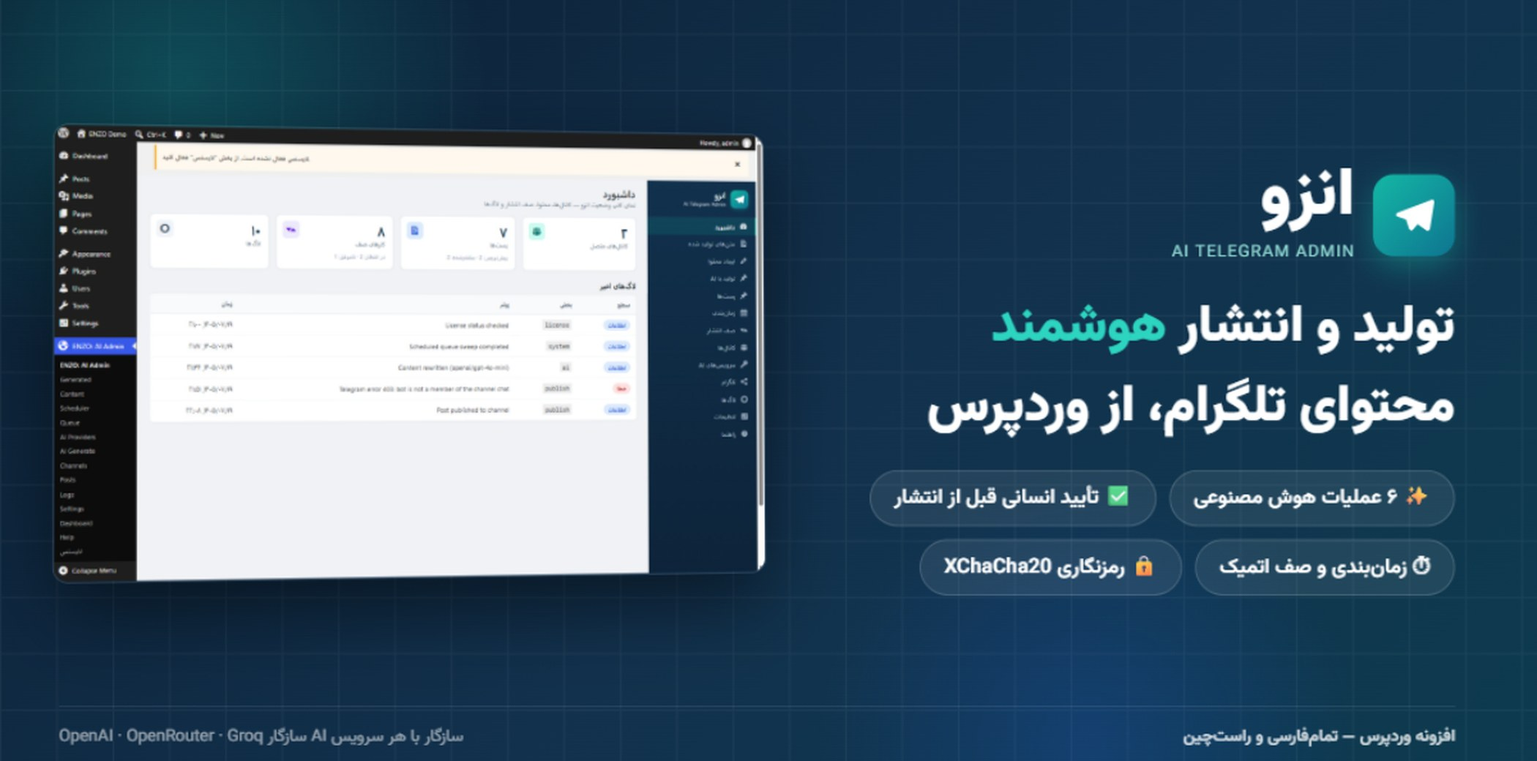
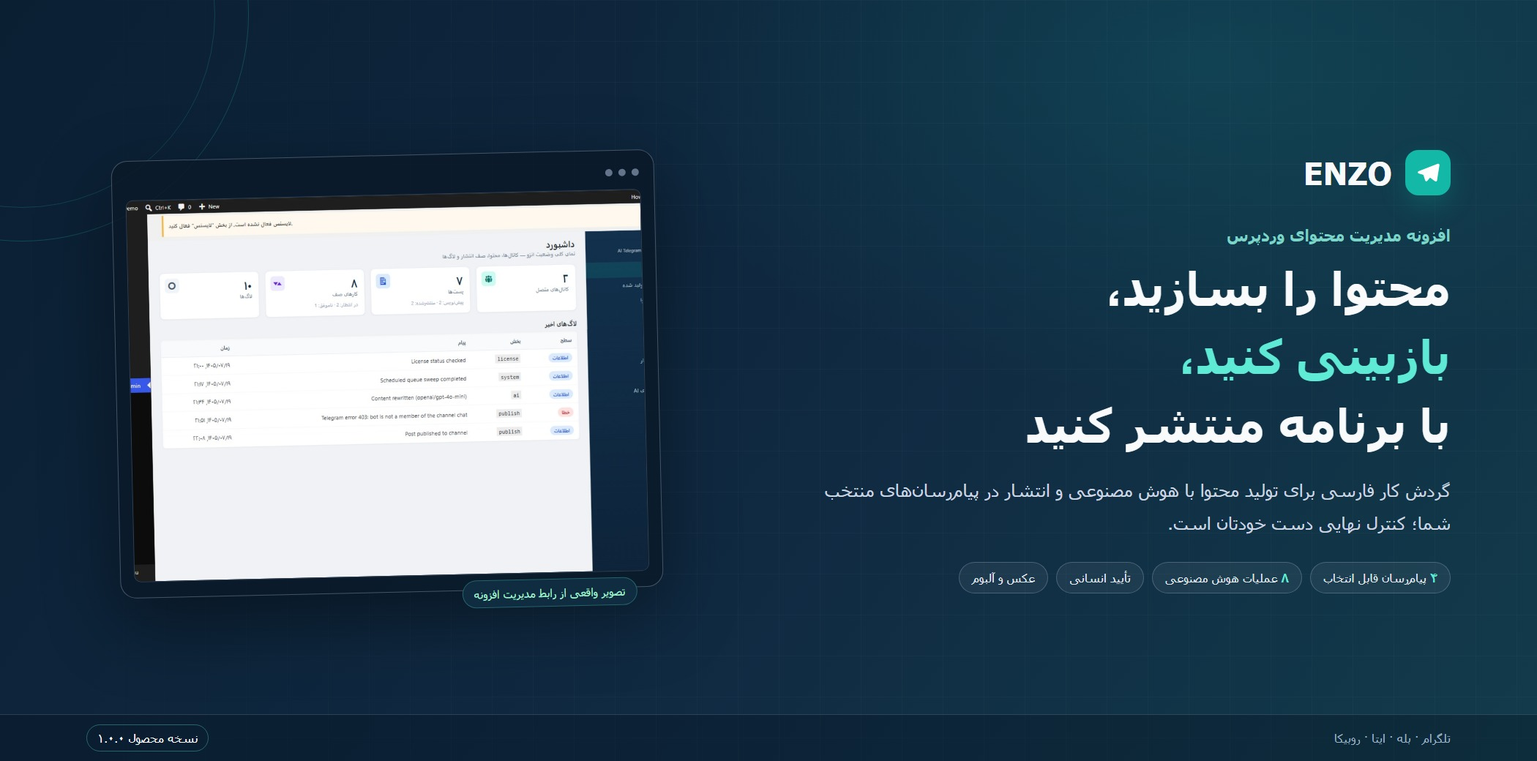
Promote Iranian messaging platform support

Changed region(s): [[0.0, 0.0, 0.4952, 0.8], [0.031, 0.6154, 0.9595, 1.0], [0.5881, 0.1846, 0.9595, 0.5846]]

diff --git a/release/ENZO-RTL-Theme-Submission/demo/index.html b/release/ENZO-RTL-Theme-Submission/demo/index.html
@@ -3,8 +3,8 @@
 <head>
 <meta charset="utf-8">
 <meta name="viewport" content="width=device-width, initial-scale=1">
-<title>انزو — تولید و انتشار هوشمند محتوای تلگرام از وردپرس | دموی آنلاین</title>
-<meta name="description" content="انزو (ENZO): افزونه وردپرس تولید محتوا با هوش مصنوعی، تأیید انسانی، زمانبندی و صف انتشار اتمیک برای کانال تلگرام — تمامفارسی و راستچین.">
+<title>ENZO | اتوماسیون محتوا برای پیامرسانهای ایرانی در وردپرس</title>
+<meta name="description" content="پیشنمایش فارسی افزونه ENZO نسخه ۱.۰.۰: ۸ عملیات هوش مصنوعی، تلگرام، بله، ایتا، روبیکا، تأیید انسانی، زمانبندی و ارسال آلبوم عکس.">
 <link href="https://fonts.googleapis.com/css2?family=Vazirmatn:wght@400;600;700;900&display=swap" rel="stylesheet">
 <style>
   * { margin:0; padding:0; box-sizing:border-box; }
@@ -48,6 +48,8 @@
   .feature .icon { font-size:30px; margin-bottom:10px; }
   .feature h3 { font-size:17px; margin-bottom:6px; }
   .feature p { font-size:14px; color:#64748b; }
+  .platform-list { display:flex; flex-wrap:wrap; gap:8px; margin-top:12px; }
+  .platform-list span { display:inline-block; padding:4px 10px; border-radius:999px; color:#0f766e; background:#ccfbf1; font-size:12px; font-weight:700; }
 
   /* gallery */
   .gallery { display:grid; grid-template-columns:1fr 1fr; gap:18px; }
@@ -136,8 +138,8 @@
 <header class="hero">
   <div class="container">
     <div>
-      <h1>محتوای کانال تلگرامات را<br>به <span class="accent">هوش مصنوعی</span> بسپار،<br>تأیید نهایی با خودت</h1>
-      <p class="lead">انزو یک افزونه وردپرس است: با هر سرویس AI سازگار OpenAI محتوا تولید، بازنویسی، خلاصه و ترجمه میکند؛ پیشنمایش را به تأیید تو میگذارد و سر وقتِ مقرر با صف انتشار اتمیک در کانال منتشر میکند. تمامفارسی و راستچین.</p>
+      <h1>محتوای شما،<br>در <span class="accent">پیامرسان دلخواهتان</span><br>با تأیید نهایی خودتان</h1>
+      <p class="lead">ENZO نسخهٔ ۱.۰.۰، تولید و بازبینی محتوا را در وردپرس به انتشار زمانبندیشده وصل میکند. برای تلگرام، بله، ایتا یا روبیکا محتوا آماده کنید؛ ۸ عملیات هوش مصنوعی، عکس و آلبوم، و تأیید انسانی پیش از انتشار.</p>
       <div class="cta-row">
         <a class="btn btn-primary" href="#demo">🚀 تست آنلاین بدون نصب</a>
         <a class="btn btn-ghost" href="#shots">مشاهده تصاویر</a>
@@ -150,14 +152,15 @@
 <section id="features">
   <div class="container">
     <h2 class="title">چرا انزو؟</h2>
-    <p class="subtitle">همهچیز داخل پیشخوان وردپرس — بدون خروج از سایت</p>
+    <p class="subtitle">گردش کار محتوا از تولید تا بازبینی و انتشار در پیشخوان وردپرس</p>
     <div class="features">
-      <div class="feature"><div class="icon">🤖</div><h3>۶ عملیات هوش مصنوعی</h3><p>تولید محتوا، بازنویسی، خلاصهسازی، ترجمه، تیتر و کپشن — با هر سرویس سازگار OpenAI: OpenAI، OpenRouter، Groq و…</p></div>
-      <div class="feature"><div class="icon">👀</div><h3>تأیید انسانی الزامی</h3><p>پیشنمایش تلگرامیِ واقعی قبل از انتشار؛ ویرایش مستقیم متن و تنها با تأیید تو مرحله بعد.</p></div>
-      <div class="feature"><div class="icon">⏱</div><h3>زمانبندی و صف اتمیک</h3><p>صف انتشار با قفل اتمیک و retry هوشمند — بدون انتشار تکراری حتی اگر سرور وسط کار بیفتد.</p></div>
-      <div class="feature"><div class="icon">🖼</div><h3>عکس + کپشن در یک پیام</h3><p>ارسال تصویر شاخص همراه متن در یک پیام تلگرام.</p></div>
-      <div class="feature"><div class="icon">🔒</div><h3>امنیت سختگیرانه</h3><p>توکن و کلیدها با XChaCha20-Poly1305 رمزنگاری میشوند؛ SSRF Gate روی همه ترافیک خروجی؛ لاگها بدون مقادیر حساس.</p></div>
-      <div class="feature"><div class="icon">🇮🇷</div><h3>تمامفارسی و راستچین</h3><p>رابط مدیریت کامل فارسی؛ تاریخ شمسی؛ مستندات فارسی؛ نصب در ۵ دقیقه.</p></div>
+      <div class="feature"><div class="icon">🤖</div><h3>۸ عملیات هوش مصنوعی</h3><p>تولید، بازنویسی، خلاصه، تیتر، کپشن، ترجمه، بهینهسازی SEO و ساخت هشتگ. اتصال به سرویسهای سازگار با OpenAI.</p></div>
+      <div class="feature"><div class="icon">📡</div><h3>برای پیامرسانهای ایرانی</h3><p>تلگرام، بله، ایتا و روبیکا در افزونه پشتیبانی میشوند. در هر لحظه یک پلتفرم ربات را در تنظیمات انتخاب میکنید:</p><div class="platform-list"><span>تلگرام</span><span>بله</span><span>ایتا</span><span>روبیکا</span></div></div>
+      <div class="feature"><div class="icon">👀</div><h3>بازبینی پیش از انتشار</h3><p>پیشنمایش و امکان ویرایش متن؛ انتشار پس از تأیید یا زمانبندی شما انجام میشود.</p></div>
+      <div class="feature"><div class="icon">⏱</div><h3>زمانبندی و صف انتشار</h3><p>صف با اجرای اتمیک، تلاش مجدد خودکار و امکان اجرای دوباره یا لغو کارها.</p></div>
+      <div class="feature"><div class="icon">🖼</div><h3>عکس یا آلبوم عکس</h3><p>ارسال یک تصویر با کپشن یا چند تصویر در قالب یک آلبوم، از کتابخانه رسانه وردپرس.</p></div>
+      <div class="feature"><div class="icon">🔒</div><h3>نگهداری امن کلیدها</h3><p>توکن ربات و کلید سرویس هوش مصنوعی رمزنگاری میشوند و در لاگها پنهان میمانند.</p></div>
+      <div class="feature"><div class="icon">🇮🇷</div><h3>رابط فارسی و راستچین</h3><p>مدیریت محتوا، کانالها، سرویسهای هوش مصنوعی و صف انتشار از پیشخوان وردپرس.</p></div>
     </div>
   </div>
 </section>
@@ -165,25 +168,26 @@
 <section id="shots" style="background:#fff;">
   <div class="container">
     <h2 class="title">یک نگاه به پیشخوان</h2>
-    <p class="subtitle">اسکرینشاتهای واقعی محصول (نسخه ۱.۱.۰)</p>
+    <p class="subtitle">نماهایی از رابط مدیریت افزونه؛ نسخه محصول ۱.۰.۰ است.</p>
     <div class="gallery">
       <figure><img src="shots/01-dashboard.jpg" alt="داشبورد" loading="lazy"><figcaption>داشبورد: نمای کلی کانالها، پستها، صف و لاگها</figcaption></figure>
-      <figure><img src="shots/02-telegram.jpg" alt="اتصال تلگرام" loading="lazy"><figcaption>اتصال ربات تلگرام با اعتبارسنجی و تست اتصال</figcaption></figure>
+      <figure><img src="shots/02-telegram.jpg" alt="تنظیم پلتفرم پیامرسان و اتصال ربات" loading="lazy"><figcaption>انتخاب پلتفرم پیامرسان و تنظیم ربات</figcaption></figure>
       <figure><img src="shots/03-ai.jpg" alt="سرویسهای AI" loading="lazy"><figcaption>هر سرویس سازگار OpenAI — کلیدها رمزنگاریشده ذخیره میشوند</figcaption></figure>
       <figure><img src="shots/04-generate.jpg" alt="تولید با AI" loading="lazy"><figcaption>تولید/بازنویسی/خلاصه/ترجمه با ویرایش مستقیم خروجی</figcaption></figure>
       <figure><img src="shots/05-posts.jpg" alt="پستها" loading="lazy"><figcaption>گردش کار: پیشنویس ← تأیید شما ← زمانبندی یا انتشار فوری</figcaption></figure>
       <figure><img src="shots/06-queue.jpg" alt="صف انتشار" loading="lazy"><figcaption>صف اتمیک با اجرای دستی، تلاش مجدد و لغو</figcaption></figure>
-      <figure><img src="shots/08-preview.jpg" alt="پیشنمایش تلگرام" loading="lazy"><figcaption>پیشنمایش پیام تلگرام + هشدار سقف ۴۰۹۶ کاراکتر</figcaption></figure>
-      <figure><img src="shots/07-workflow.jpg" alt="گردش کار" loading="lazy"><figcaption>گردش کار ۴ مرحلهای — هیچچیز بدون تأیید شما منتشر نمیشود</figcaption></figure>
+      <figure><img src="shots/08-preview.jpg" alt="پیشنمایش تلگرام" loading="lazy"><figcaption>پیشنمایش پیام در پیامرسان انتخابی</figcaption></figure>
+      <figure><img src="shots/07-workflow.jpg" alt="گردش کار" loading="lazy"><figcaption>گردش کار: تولید، بازبینی، تأیید و زمانبندی انتشار</figcaption></figure>
+      <figure><img src="shots/infographic-1000.jpg" alt="مراحل کار با افزونه ENZO" loading="lazy"><figcaption>مراحل راهاندازی و انتشار محتوا در ENZO</figcaption></figure>
     </div>
   </div>
 </section>
 
 <section id="demo" class="demo-wrap">
   <div class="container">
-    <h2 class="title" style="color:#fff">تست آنلاین</h2>
-    <p class="subtitle" style="color:#b8c8d8">نسخه نمایشی پنل مدیریت — همینجا کلیک کن و ور برو</p>
-    <div class="demo-note">⚠ این دمو شبیهسازیشده و بدون اتصال واقعی به تلگرام/AI است؛ دادهها نمایشیاند. محصول اصلی داخل پیشخوان وردپرس شما اجرا میشود.</div>
+    <h2 class="title" style="color:#fff">پیشنمایش تعاملی</h2>
+    <p class="subtitle" style="color:#b8c8d8">با بخشهای نمونه آشنا شوید و گردش کار را ببینید.</p>
+    <div class="demo-note">این پیشنمایش مستقل و شبیهسازیشده است؛ به حساب تلگرام، بله، ایتا، روبیکا یا سرویس AI وصل نمیشود. اطلاعات و خروجیها نمونهاند. نسخه واقعی پس از نصب در وردپرس و واردکردن تنظیمات شما کار میکند.</div>
 
     <div class="demo-app">
       <div class="demo-side">
@@ -192,7 +196,7 @@
         <button data-view="gen">🤖 تولید با AI</button>
         <button data-view="posts">📋 پستها</button>
         <button data-view="queue">⏱ صف انتشار</button>
-        <button data-view="tg">✈ تلگرام</button>
+        <button data-view="platforms">📡 پیامرسانها</button>
       </div>
       <div class="demo-main" id="demoMain"></div>
     </div>
@@ -208,7 +212,9 @@
       <details><summary>آیا خودش بدون اجازه من پست منتشر میکند؟</summary><p>خیر. گردش کار انزو عمداً بر تأیید انسانی استوار است: خروجی AI پیشنویس ذخیره میشود و تنها پس از تأیید یا زمانبندیِ شما منتشر میگردد.</p></details>
       <details><summary>اگر سرور موقع انتشار قطع شود چه میشود؟</summary><p>صف انتشار اتمیک است: هر کار با قفل و TTL اجرا میشود و در صورت خطا با فاصله نمایی تا ۵ بار تلاش میکند. انتشار تکراری رخ نمیدهد.</p></details>
       <details><summary>توکن ربات و کلید API کجا ذخیره میشود؟</summary><p>در دیتابیس سایت خودتان، رمزنگاریشده با XChaCha20-Poly1305. در هیچ پاسخ REST، فرم یا لاگی نمایش داده نمیشوند (بهصورت خودکار حذف/ماسک میشوند).</p></details>
-      <details><summary>هاست من به تلگرام دسترسی دارد؟</summary><p>میزبان باید بتواند به api.telegram.org و endpoint سرویس AI شما HTTPS خروجی بزند. اگر هاستتان محدود است، Base URL سرویسهایی مثل OpenRouter معمولاً در دسترستر است.</p></details>
+      <details><summary>کدام پیامرسانها پشتیبانی میشوند؟</summary><p>تلگرام، بله، ایتا و روبیکا. پلتفرم را از تنظیمات افزونه انتخاب میکنید و هر بار یک پیامرسان فعال است. این پیشنمایش اتصال واقعی به هیچکدام ندارد. برای استفاده از نسخه اصلی، هاست وردپرس باید دسترسی HTTPS خروجی به API پیامرسان انتخابی و سرویس AI داشته باشد.</p></details>
+      <details><summary>آیا این صفحه واقعاً محتوا را منتشر میکند؟</summary><p>خیر. این صفحه فقط پیشنمایش تعاملی با دادههای نمونه است. انتشار واقعی پس از نصب افزونه در وردپرس، تنظیم ربات و سرویس AI و تأیید شما انجام میشود.</p></details>
+      <details><summary>ارسال چند عکس هم ممکن است؟</summary><p>بله. در نسخه افزونه میتوانید یک عکس با کپشن یا چند عکس را از کتابخانه رسانه انتخاب کنید؛ چند عکس به صورت آلبوم ارسال میشود.</p></details>
       <details><summary>نیازمندیها؟</summary><p>وردپرس ۶.۵+ (تکسایت)، PHP 8.1+ با اکستنشن sodium، MySQL 5.7+ / MariaDB 10.3+.</p></details>
     </div>
   </div>
@@ -216,49 +222,48 @@
 
 <section class="cta">
   <div class="container">
-    <h2>آمادهای کانال تلگرامت خودکار شود؟</h2>
-    <p>نصب در ۵ دقیقه — بدون هیچ وابستگی خارجی، با حذف کامل در uninstall</p>
+    <h2>گردش کار محتوایتان را در وردپرس مدیریت کنید</h2>
+    <p>پس از نصب افزونه، ربات و سرویس AI خود را پیکربندی کنید؛ انتشار با بازبینی و تأیید شما انجام میشود.</p>
     <a class="btn btn-primary" href="https://rtl-theme.com" target="_blank" rel="noopener">خرید از RTL-Theme</a>
   </div>
 </section>
 
-<footer>انزو — AI Telegram Admin · نسخه ۱.۱.۰ · این صفحه دموی نمایشی است · <a href="https://github.com/mhasseli1987/enzo">مخزن پروژه</a></footer>
+<footer>ENZO — اتوماسیون محتوای وردپرس · نسخه محصول ۱.۰.۰ · این صفحه پیشنمایش تعاملی است · <a href="https://github.com/mhasseli1987/rastchin-1">مخزن پروژه</a></footer>
 
 <script>
 /* --- شبیهسازی دمو: داده نمایشی، بدون هیچ تماس شبکهای --- */
-var CH = 'کانال رسمی سایت';
+var CH = 'کانال نمونه';
 function badge(t, c) { return '<span class="badge ' + c + '">' + t + '</span>'; }
 var V = {
   dash: function () {
     return '<h4>داشبورد</h4><div class="desc">نمای کلی وضعیت انزو — کانالها، محتوا، صف انتشار و لاگها</div>'
       + '<div class="d-cards">'
-      + '<div class="d-card"><div class="v">۲</div><div class="l">کانالهای متصل</div></div>'
-      + '<div class="d-card"><div class="v">۷</div><div class="l">پستها <span style="color:#94a3b8;font-size:10px">پیشنویس ۲ · منتشرشده ۲</span></div></div>'
-      + '<div class="d-card"><div class="v">۸</div><div class="l">کارهای صف</div></div>'
-      + '<div class="d-card"><div class="v">۱۰</div><div class="l">لاگها</div></div>'
+      + '<div class="d-card"><div class="v">۴</div><div class="l">پلتفرم قابل انتخاب</div></div>'
+      + '<div class="d-card"><div class="v">۸</div><div class="l">عملیات هوش مصنوعی</div></div>'
+      + '<div class="d-card"><div class="v">✓</div><div class="l">تأیید انسانی پیش از انتشار</div></div>'
+      + '<div class="d-card"><div class="v">۱ + چند</div><div class="l">عکس تکی یا آلبوم</div></div>'
       + '</div><h4 style="margin-top:18px">لاگهای اخیر</h4>'
       + '<table class="d-tbl"><tr><th>سطح</th><th>بخش</th><th>پیام</th><th>زمان</th></tr>'
-      + '<tr><td>' + badge('اطلاعات', 'b-blue') + '</td><td><code>telegram</code></td><td>Telegram bot connected</td><td>۱۴۰۵/۰۷/۱۹ ۱۴:۵۹</td></tr>'
-      + '<tr><td>' + badge('اطلاعات', 'b-blue') + '</td><td><code>publish</code></td><td>Post published to channel</td><td>۱۴۰۵/۰۷/۱۹ ۱۴:۳۳</td></tr>'
-      + '<tr><td>' + badge('هشدار', 'b-yellow') + '</td><td><code>publish</code></td><td>Telegram sendPhoto retry scheduled</td><td>۱۴۰۵/۰۷/۱۹ ۱۴:۱۰</td></tr>'
-      + '<tr><td>' + badge('خطا', 'b-red') + '</td><td><code>publish</code></td><td>Telegram error 403: bot is not a member…</td><td>۱۴۰۵/۰۷/۱۹ ۱۳:۲۶</td></tr>'
+      + '<tr><td>' + badge('نمونه', 'b-blue') + '</td><td><code>content</code></td><td>پیشنویس برای بازبینی آماده شد</td><td>—</td></tr>'
+      + '<tr><td>' + badge('نمونه', 'b-blue') + '</td><td><code>review</code></td><td>محتوا پس از تأیید برای زمانبندی آماده است</td><td>—</td></tr>'
+      + '<tr><td>' + badge('نمونه', 'b-yellow') + '</td><td><code>queue</code></td><td>کار انتشار در صف زمانبندی قرار گرفت</td><td>—</td></tr>'
+      + '<tr><td>' + badge('اطلاع', 'b-gray') + '</td><td><code>demo</code></td><td>این دادهها صرفاً نمایشی هستند</td><td>—</td></tr>'
       + '</table>';
   },
   gen: function () {
-    return '<h4>AI تولید</h4><div class="desc">تولید، بازنویسی، خلاصه و ترجمه محتوا — خروجی بهصورت خودکار پیشنویس ذخیره میشود (در دمو: شبیهسازی)</div>'
+    return '<h4>هوش مصنوعی</h4><div class="desc">۸ عملیات نمونه؛ اجرای واقعی به سرویس AI تنظیمشده در وردپرس نیاز دارد.</div>'
       + '<div class="d-form">'
-      + '<label>عملیات</label><select id="gOp"><option>تولید محتوا</option><option>بازنویسی</option><option>خلاصهسازی</option><option>ترجمه</option><option>تیتر</option><option>کپشن</option></select>'
-      + '<label>موضوع یا ورودی</label><textarea id="gIn" rows="3" placeholder="مثال: معرفی تخفیف ۲۰٪ محصولات پاییزی برای کانال فروشگاه"></textarea>'
-      + '<button class="btn" onclick="demoGenerate()">اجرا با AI</button>'
+      + '<label>عملیات</label><select id="gOp"><option>تولید محتوا</option><option>بازنویسی</option><option>خلاصهسازی</option><option>ساخت تیتر</option><option>نوشتن کپشن</option><option>ترجمه</option><option>بهینهسازی SEO</option><option>استخراج هشتگ</option></select>'
+      + '<label>موضوع یا متن نمونه</label><textarea id="gIn" rows="3" placeholder="مثال: معرفی تخفیف محصولات پاییزی برای فروشگاه محلی"></textarea>'
+      + '<button class="btn" onclick="demoGenerate()">مشاهده خروجی نمونه</button>'
       + '</div><div id="gOut" style="margin-top:16px"></div>';
   },
   posts: function () {
     return '<h4>پستها</h4><div class="desc">گردش کار: پیشنویس ← تأیید شما ← زمانبندی یا انتشار فوری</div>'
       + '<table class="d-tbl"><tr><th>#</th><th>عنوان / متن</th><th>کانال</th><th>وضعیت</th><th>عملیات</th></tr>'
-      + '<tr><td><code>۷</code></td><td><b>معرفی نسخه جدید قالب فروشگاهی</b><br><span style="color:#64748b">۱۰ قابلیت تازه…</span></td><td>کانال رسمی</td><td>' + badge('پیشنویس', 'b-gray') + '</td><td><button class="d-btn" onclick="alert(\'در محصول واقعی: پیشنمایش تلگرامی + ویرایش\')">پیشنمایش</button></td></tr>'
-      + '<tr><td><code>۶</code></td><td><b>مقاله جدید: هوش مصنوعی در بازاریابی محتوا</b></td><td>کانال رسمی</td><td>' + badge('پیشنویس', 'b-gray') + '</td><td><button class="d-btn" onclick="alert(\'در محصول واقعی: تأیید ← زمانبندی یا انتشار فوری\')">تأیید</button></td></tr>'
-      + '<tr><td><code>۵</code></td><td><b>آموزش بکاپگیری خودکار از دیتابیس</b></td><td>کانال رسمی</td><td>' + badge('منتشرشده', 'b-green') + '</td><td>—</td></tr>'
-      + '<tr><td><code>۳</code></td><td><b>راهنمای کامل اتصال درگاه بانکی جدید</b></td><td>کانال محصولات</td><td>' + badge('زمانبندیشده', 'b-purple') + '</td><td>' + badge('۱۴۰۵/۰۷/۲۰ ۲۰:۰۰', 'b-gray') + '</td></tr>'
+      + '<tr><td><code>۱</code></td><td><b>معرفی محصول پاییزی</b><br><span style="color:#64748b">۲ تصویر پیوست · نمونه آلبوم</span></td><td>کانال نمونه</td><td>' + badge('پیشنویس', 'b-gray') + '</td><td><button class="d-btn" onclick="alert(\'در نسخه اصلی، پیشنمایش و ویرایش در وردپرس انجام میشود.\')">پیشنمایش</button></td></tr>'
+      + '<tr><td><code>۲</code></td><td><b>راهنمای خرید محلی</b></td><td>کانال نمونه</td><td>' + badge('پیشنویس', 'b-gray') + '</td><td><button class="d-btn" onclick="alert(\'در نسخه اصلی، شما پیش از انتشار محتوا را تأیید میکنید.\')">بازبینی</button></td></tr>'
+      + '<tr><td><code>۳</code></td><td><b>خبرنامه هفتگی</b></td><td>کانال نمونه</td><td>' + badge('زمانبندیشده', 'b-purple') + '</td><td>' + badge('نمونه', 'b-gray') + '</td></tr>'
       + '</table>';
   },
   queue: function () {
@@ -271,13 +276,19 @@ var V = {
       + '</table>';
   },
   tg: function () {
-    return '<h4>تلگرام</h4><div class="desc">اتصال ربات تلگرام — توکن با رمزنگاری XChaCha20 ذخیره میشود (در دمو هیچ توکنی ذخیره نمیشود)</div>'
-      + '<div style="margin-bottom:14px">' + badge('✔ ربات متصل است: @mysite_admin_bot', 'b-green') + '</div>'
-      + '<div class="d-form"><label>Bot Token (از @BotFather)</label><input type="password" placeholder="123456789:AAH…" value="123456789:AA••••••••••••••••••••••••" disabled>'
-      + '<div style="font-size:11px;color:#64748b;margin-top:6px">در دمو غیرفعال است — توکن واقعی فقط روی سایت خودتان وارد میشود.</div></div>'
-      + '<div class="tg-card" style="margin-top:16px"><div class="tg-head"><div class="tg-av">ک</div><div><div style="font-weight:800;font-size:13px">' + CH + '</div><div style="font-size:11px;opacity:.8;direction:ltr;text-align:right">@mysite_news</div></div></div>'
-      + '<div class="tg-body">🔥 معرفی نسخه جدید قالب فروشگاهی — ۱۰ قابلیت تازه\n\nاین متن نمونه برای نمایش پیشنمایش تلگرامی در دمو است.</div>'
-      + '<div class="tg-foot"><span>زمان ارسال، سر وقت خودش</span><span>۸۸ کاراکتر</span></div></div>';
+    return '<h4>پیشنمایش پیام</h4><div class="desc">نمونه نمایشی پیشنمایش پست؛ هیچ پیامی ارسال نمیشود.</div>'
+      + '<div class="tg-card"><div class="tg-head"><div class="tg-av">ا</div><div><div style="font-weight:800;font-size:13px">' + CH + '</div><div style="font-size:11px;opacity:.8">پلتفرم انتخابی شما</div></div></div>'
+      + '<div class="tg-body">🍂 پیشنهاد تازه برای فصل پاییز\n\nمتن نهایی را پیش از زمانبندی بازبینی و تأیید کنید.\n\n#خرید_محلی #پیشنهاد_ویژه</div>'
+      + '<div class="tg-foot"><span>متن و رسانه نمونه</span><span>آلبوم: ۲ تصویر نمونه</span></div></div>';
+  },
+  platforms: function () {
+    return '<h4>پلتفرم ربات</h4><div class="desc">در نسخه اصلی، یکی از پلتفرمها را از تنظیمات انتخاب میکنید؛ این پیشنمایش به APIها وصل نیست.</div>'
+      + '<div class="features" style="grid-template-columns:repeat(auto-fit,minmax(130px,1fr))">'
+      + '<div class="d-card"><div class="v">✈</div><div class="l">تلگرام</div></div>'
+      + '<div class="d-card"><div class="v">ب</div><div class="l">بله</div></div>'
+      + '<div class="d-card"><div class="v">ا</div><div class="l">ایتا</div></div>'
+      + '<div class="d-card"><div class="v">ر</div><div class="l">روبیکا</div></div></div>'
+      + '<p class="desc" style="margin-top:16px">برای ارسال واقعی، ربات، دسترسی کانال و API پیامرسان انتخابی را در وردپرس تنظیم کنید.</p>';
   },
 };
 function show(id) {
@@ -290,12 +301,12 @@ function demoGenerate() {
   var op = document.getElementById('gOp').value;
   var out = document.getElementById('gOut');
   if (!input) { out.innerHTML = '<div class="badge b-red">متن ورودی خالی است.</div>'; return; }
-  out.innerHTML = '<div class="badge b-blue">در حال تولید…</div>';
+    out.innerHTML = '<div class="badge b-blue">در حال آمادهسازی نمونه…</div>';
   setTimeout(function () {
-    out.innerHTML = '<div class="d-form"><label>خروجی شبیهسازیشده (' + op + ')</label><textarea rows="5" readonly>'
-      + '🔥 ' + input + '\n\nبهعنوان نمونه، این متن در نسخه واقعی توسط سرویس AI خودِ شما تولید میشود و همینجا قابل ویرایش است.'
-      + '\n\n✅ در محصول واقعی: خروجی بلافاصله بهعنوان پیشنویس ذخیره و قابل تأیید/زمانبندی است.</textarea>'
-      + '<button class="btn" onclick="show(\'posts\')">رفتن به پستها →</button></div>';
+    out.innerHTML = '<div class="d-form"><label>خروجی نمونهٔ «' + op + '» — تولید واقعی انجام نشد</label><textarea rows="5" readonly>'
+      + '✨ ' + input + '\n\nاین متن نمونه است. در نسخه نصبشده، خروجی بر اساس تنظیمات سرویس هوش مصنوعی شما ساخته و برای بازبینی آماده میشود.'
+      + '\n\nپس از تأیید شما میتوان آن را زمانبندی کرد یا در صف انتشار گذاشت.</textarea>'
+      + '<button class="btn" onclick="show(\'posts\')">رفتن به نمونه پستها ←</button></div>';
   }, 900);
 }
 document.querySelectorAll('.demo-side button[data-view]').forEach(function (b) {

diff --git a/release/ENZO-RTL-Theme-Submission/submission-only/RTL-PRODUCT-LISTING-FA.md b/release/ENZO-RTL-Theme-Submission/submission-only/RTL-PRODUCT-LISTING-FA.md
@@ -3,55 +3,55 @@
 > سند داخلی برای فروشنده — متن بخشها را در فیلدهای مربوطه پنل کپی کنید. قیمت/دسته/اسلاگ «پیشنهاد» هستند.
 
 ## عنوان محصول
-انزو | ENZO: AI Telegram Admin — مدیریت هوشمند تلگرام با هوش مصنوعی
+انزو | ENZO — مدیریت هوشمند محتوا برای تلگرام، بله، ایتا و روبیکا
 
 ## شعار کوتاه
-محتوای کانالت را هوش مصنوعی مینویسد، تو تأیید میکنی و سر وقتِ مقرر در کانال منتشر میشود — همه از داخل پیشخوان وردپرس.
+برای تلگرام، بله، ایتا یا روبیکا محتوا آماده کن؛ با هوش مصنوعی، تأیید خودت و انتشار زمانبندیشده از وردپرس.
 
 ## خلاصه (۳-۴ خط)
-انزو یک افزونه وردپرس برای مدیران سایتی است که کانال تلگرام فعال دارند: با هر سرویس AI سازگار OpenAI محتوا تولید، بازنویسی، خلاصه یا ترجمه میکند، پیشنمایش را به تأیید **شما** میگذارد و پست را در زمان مقرر با صف انتشار اتمیک و بدون انتشار تکراری به کانال میفرستد. تمامفارسی و راستچین، با رمزنگاری سختگیرانه توکنها و کلیدها.
+انزو افزونهای فارسی و راستچین برای مدیریت محتوای کانالهای تلگرام، بله، ایتا و روبیکا از پیشخوان وردپرس است. با سرویسهای سازگار OpenAI محتوا تولید، بازنویسی، خلاصه یا ترجمه کنید؛ پیشنمایش را بازبینی و تأیید کنید و انتشار را زمانبندی کنید. در هر نصب یک پلتفرم پیامرسان انتخاب میشود. توکنها و کلیدهای سرویس رمزنگاری میشوند.
 
 ## معرفی کامل
-مدیران سایتهای ایرانی روزانه دو کار تکراری دارند: تولید محتوا و انتقال دستی آن به کانال تلگرام. انزو این دو را در یک گردش کار امن جمع میکند: موضوع را میدهید، AI متن پیشنهادی میسازد، شما پیشنمایش را میبینید و اصلاح/تأیید میکنید، و پست در ساعتی که تعیین کردهاید خودکار در کانال منتشر میشود. هیچچیز بدون تأیید انسانی منتشر نمیشود — انزو «دستیار» است، نه جایگزین شما.
+مدیران سایتهای ایرانی زمان زیادی را صرف تولید محتوا و انتقال دستی آن به کانالهای پیامرسان میکنند. انزو این کار را در یک گردش کار وردپرسی جمع میکند: موضوع میدهید، هوش مصنوعی پیشنویس میسازد، شما آن را بازبینی و تأیید میکنید و سپس در پلتفرم انتخابیتان زمانبندی یا منتشر میکنید. انزو از تلگرام، بله، ایتا و روبیکا پشتیبانی میکند؛ در هر نصب یک پلتفرم فعال است و انتشار پس از تأیید شما انجام میشود.
 
 ## مشکلاتی که حل میکند
-- کپی-پیست دستی محتوا از وردپرس به تلگرام
+- کپیکردن دستی محتوا از وردپرس به پیامرسانهای پشتیبانیشده
 - فراموششدن ساعت انتشار و بینظمی کانال
 - اتلاف وقت برای بازنویسی/خلاصه/ترجمه و تیتر و کپشن
 - نگرانی امنیتی: توکن ربات و کلید AI با رمزنگاری AEAD ذخیره میشوند و هرگز در لاگ یا پاسخ API دیده نمیشوند
 
 ## امکانات اصلی
-- اتصال ربات تلگرام با اعتبارسنجی خودکار (getMe) و تست اتصال
+- انتخاب و اتصال ربات در یکی از چهار پلتفرم: تلگرام، بله، ایتا یا روبیکا
 - پشتیبانی از هر سرویس AI سازگار OpenAI: OpenAI، OpenRouter، Groq، سرویسهای داخلی و…
-- ۶ عملیات هوش مصنوعی: تولید، بازنویسی، خلاصهسازی، تیتر، کپشن، ترجمه
+- ۸ عملیات هوش مصنوعی: تولید، بازنویسی، خلاصهسازی، تیتر، کپشن، ترجمه، SEO و هشتگ
 - پیشنمایش قبل از انتشار + تأیید انسانی الزامی
 - زمانبندی دقیق، انتشار فوری، لغو، retry دستی
 - صف انتشار اتمیک (بدون انتشار تکراری) + retry خودکار تا ۵ بار با فاصله نمایی
-- ارسال «عکس + کپشن» در یک پیام
+- ارسال یک عکس با کپشن یا چند عکس بهصورت آلبوم
 - لاگ ساختاریافته با حذف خودکار مقادیر حساس
 - **رابط مدیریت کامل و تعاملی برای همه بخشها** (۱۳ صفحه): تولید AI، پستها، زمانبندی، صف، کانالها، لاگها، تنظیمات
 - ۲۸ endpoint REST با کنترل دسترسی کامل + منوی ۱۴ بخشی فارسی
-- پیشنمایش پیام تلگرام با ظاهر واقعی و هشدار سقف ۴۰۹۶ کاراکتر
+- پیشنمایش پیام پیش از تأیید و انتشار در پیامرسان انتخابی
 - ثبت کانال و ویرایش پست مستقیم از پیشخوان (بدون نیاز به SQL یا REST دستی)
 - حذف کامل دادهها هنگام uninstall (تستشده)
 
 ## مخاطب و کاربردها
-مدیران محتوا، خبرگزاریها و کانالهای خبری، فروشگاهها، مدیران چندسایتی که کانال خبری دارند؛ هر کسی که خروجی منظم و زمانبندیشده در تلگرام میخواهد.
+مدیران محتوا، خبرگزاریها، کانالهای خبری و فروشگاههایی که برای تلگرام، بله، ایتا یا روبیکا محتوای منظم و زمانبندیشده منتشر میکنند.
 
 ## نحوه کار (۴ گام)
-۱. ربات تلگرام را میسازید و به انزو وصل میکنید ← ۲. سرویس AI و کلید API را پیکربندی میکنید ← ۳. موضوع میدهید و پیشنویس AI را بازبینی/اصلاح میکنید ← ۴. تأیید و زمانبندی میکنید؛ انزو سر موعد در کانال منتشر میکند.
+۱. یکی از پیامرسانهای پشتیبانیشده را انتخاب و رباتش را تنظیم میکنید ← ۲. سرویس AI را پیکربندی میکنید ← ۳. پیشنویس را بازبینی و اصلاح میکنید ← ۴. تأیید و زمانبندی میکنید تا در کانال پلتفرم انتخابی منتشر شود.
 
 ## پیشنیازها
-وردپرس 6.5+، PHP 8.1+ (اکستنشن `sodium`)، MySQL 5.7+/MariaDB 10.3+، دسترسی HTTPS خروجی هاست به `api.telegram.org` و آدرس سرویس AI، نقش Administrator.
+وردپرس 6.5+، PHP 8.1+ (اکستنشن `sodium`)، MySQL 5.7+/MariaDB 10.3+، دسترسی HTTPS خروجی هاست به API پیامرسان انتخابی و سرویس AI، نقش Administrator.
 
 ## نصب و راهاندازی (خلاصه — نسخه کامل در راهنمای محصول)
-۱. دانلود zip از حساب RTL-Theme ← افزودن افزونه ← بارگذاری ← فعالسازی. ۲. ساخت ربات در BotFather (`/newbot`) و کپی توکن. ۳. پیشخوان ← ENZO: AI Admin ← تلگرام ← ذخیره توکن ← تست اتصال. ۴. ربات را ادمین کانال با دسترسی Post Messages کنید و شناسه عددی کانال (منفی، مثل `-1001234567890`) را ثبت کنید. ۵. سرویس AI + کلید + Base URL را وارد و تست کنید. ۶. اولین محتوا را تولید، بازبینی و زمانبندی کنید.
+۱. افزونه را از RTL-Theme نصب کنید. ۲. در تنظیمات، تلگرام، بله، ایتا یا روبیکا را انتخاب و اطلاعات ربات/کانال همان پلتفرم را وارد کنید. ۳. سرویس AI را پیکربندی کنید. ۴. محتوا را تولید، بازبینی، تأیید و زمانبندی کنید. جزئیات اتصال هر پیامرسان را مطابق راهنمای رسمی همان سرویس دنبال کنید.
 
 ## پیکربندی سرویس AI
 هر سرویسی که API سازگار OpenAI بدهد کار میکند: Base URL (مثال: `https://api.openai.com/v1/chat/completions`) + نام مدل + کلید API. چند Provider میتوانید تعریف کنید؛ کلیدها رمزنگاریشده ذخیره میشوند. برای دسترسی راحتتر از هاستهای ایرانی، OpenRouter یا Groq انتخابهای رایجاند (پیشنهاد، نه الزام).
 
-## راهاندازی ربات تلگرام
-ربات رسمی [@BotFather](https://t.me/BotFather) ← `/newbot` ← نام و نامکاربری منتهی به `bot` ← کپی توکن (فقط یک بار نمایش داده میشود). ربات باید **ادمین کانال** با دسترسی Post Messages باشد.
+## انتخاب پیامرسان
+افزونه از تلگرام، بله، ایتا و روبیکا پشتیبانی میکند. در هر نصب یک پلتفرم را در تنظیمات انتخاب و اعتبار اتصال/کانال همان پلتفرم را وارد کنید. ایجاد ربات، دریافت توکن و اعطای دسترسی کانال تابع امکانات و راهنمای رسمی پیامرسان انتخابی است.
 
 ## سازگاری
 وردپرس 6.5+ (تستشده 6.5.13)، PHP 8.1+ (تستشده 8.2)، MySQL/MariaDB استاندارد. Multisite پشتیبانی نمیشود. جدول کامل: COMPATIBILITY.md.
@@ -59,7 +59,7 @@
 ## سوالات متداول
 - **بدون لایسنس کار میکند؟** بله؛ لایسنس برای آپدیت و پشتیبانی رسمی است.
 - **کدام سرویسهای AI؟** هر سرویس سازگار OpenAI — با Base URL و کلید.
-- **چرا شناسه کانال منفی است؟** شناسه کانالهای تلگرام ذاتاً منفی است؛ رفتار طبیعی است.
+- **کدام پیامرسانها پشتیبانی میشوند؟** تلگرام، بله، ایتا و روبیکا؛ هر بار یک پلتفرم فعال است.
 - **پست تکراری منتشر میشود؟** خیر؛ صف claim اتمیک دارد.
 - **پست سر موعد منتشر نشد؟** WP-Cron با بازدید اجرا میشود؛ برای سایت کمترافیک cron واقعی سرور را تنظیم کنید (در راهنما هست).
 - **آپدیت خودکار نصب میشود؟** خیر؛ همیشه با تأیید شما.
@@ -76,21 +76,21 @@
 
 ## 🔗 دموی آنلاین (الزام م۷-۹)
 
-**دموی تعاملی فارسی (لندینگ + تست آنلاین):** https://mhasseli1987.github.io/enzo/
-این دمو شبیهسازیشده و بدون اتصال واقعی به تلگرام/AI است و همینطور هم شفاف برچسبگذاری شده است.
+**دموی تعاملی فارسی (لندینگ + پیشنمایش):** https://demo.enzovilo.site/
+این دمو شبیهسازیشده و بدون اتصال واقعی به پیامرسانها یا سرویس AI است؛ در خود صفحه نیز شفاف اعلام شده است.
 
 ## ⚠ محدودیتها و شفافسازی (الزامی)
-1. (برطرف در 1.1.0) UI کامل همه بخشها اکنون در پیشخوان موجود است؛ بخش «عکس+کپشن» نیاز به انتخاب تصویر از کتابخانه رسانه در پست دارد و آلبوم/ویدیو در نقشه راه است.
+1. پیشنمایش آنلاین مستقل، شبیهسازی رابط محصول است و اتصال زنده ندارد. در افزونه، در هر نصب یک پلتفرم از میان تلگرام، بله، ایتا و روبیکا انتخاب میشود.
 2. سرور لایسنس/بهروزرسانی: اگر از خدمات لایسنس RTL-Theme استفاده شود طبق فرآیند مارکتپلیس فعال میشود؛ پیادهسازی مرجع یک سرور مستقل (پوشه license-server) هم ضمیمه است — افزونه fail-open است و لایسنس نامعتبر هیچ قابلیتی را قطع نمیکند (طراحی عمدی ضدآسیب به سایت مشتری).
-3. هاست شما باید HTTPS خروجی به `api.telegram.org` و سرویس AI داشته باشد؛ بدون آن اتصال ممکن نیست.
-4. تکربات و تکسایت؛ پشتیبانی از پیام متنی + تکعکس (آلبوم/ویدیو در نقشه راه).
+3. هاست باید HTTPS خروجی به API پیامرسان انتخابی و سرویس AI داشته باشد؛ دسترسی API هر پیامرسان به وضعیت شبکه و سرویسدهنده هاست وابسته است.
+4. در هر نصب یک پلتفرم پیامرسان فعال است؛ ارسال متن، عکس و آلبوم عکس پشتیبانی میشود.
 5. برای انتشار دقیق در سایتهای کمترافیک، cron واقعی سرور توصیه میشود.
 6. استفاده از سرویس AI ممکن است هزینه شخص ثالث داشته باشد.
 7. تضمینی برای کارکرد «هر» سرویس AI یا «هر» هاستی بدون پیکربندی وجود ندارد.
 8. انزو کاملاً خودکار نیست: گردش کار بر «بازبینی و تأیید انسانی» استوار است — و این انتخاب عمدی ماست.
 
 ## کلمات کلیدی پیشنهادی
-افزونه تلگرام وردپرس، هوش مصنوعی فارسی، اتوماسیون محتوا، انتشار خودکار تلگرام، مدیریت کانال تلگرام، زمانبندی پست، تولید محتوا با AI، ChatGPT وردپرس
+افزونه وردپرس بله، افزونه وردپرس ایتا، افزونه وردپرس روبیکا، افزونه وردپرس تلگرام، مدیریت کانال ایرانی، هوش مصنوعی فارسی، اتوماسیون محتوا، انتشار زمانبندیشده، تولید محتوا با AI
 
 ## دسته پیشنهادی (تأیید نهایی در پنل)
 افزونههای وردپرس ← ابزارهای محتوا / هوش مصنوعی — بر اساس دستهبندی موجود پنل انتخاب شود.

diff --git a/release/ENZO-RTL-Theme-Submission/submission-only/RTL-SUBMISSION-CHECKLIST-FA.md b/release/ENZO-RTL-Theme-Submission/submission-only/RTL-SUBMISSION-CHECKLIST-FA.md
@@ -9,11 +9,11 @@
 
 | # | الزام رسمی (منبع) | وضعیت | مدرک |
 | --- | --- | --- | --- |
-| 1 | محصول تکراری نباشد (م۷-۱) | ✅ نام یکتا «انزو \| ENZO: AI Telegram Admin» | جستجوی عنوان در rtl-theme.com هنگام ثبت |
+| 1 | محصول تکراری نباشد (م۷-۱) | ✅ نام پیشنهادی «انزو \| ENZO — مدیریت هوشمند محتوا برای پیامرسانهای ایرانی» | جستجوی عنوان در rtl-theme.com هنگام ثبت |
 | 2 | توضیح کامل امکانات (م۷-۲) | ✅ | RTL-PRODUCT-LISTING-FA.md |
 | 3 | مستندسازی پیشنیازها (م۷-۳) | ✅ | COMPATIBILITY.md + بخش پیشنیازها |
 | 4 | نام یکتا (م۷-۶) | ✅ | — |
-| 5 | دمو/پیشنمایش فارسی (م۷-۹) | ✅ انجام شد | لندینگ + تست آنلاین: https://mhasseli1987.github.io/enzo/ (اسکریپت ویدیوها هم در RTL-VISUAL-PLAN-FA.md موجود است) |
+| 5 | دمو/پیشنمایش فارسی (م۷-۹) | ✅ انجام شد | https://demo.enzovilo.site/ — پیشنمایش شبیهسازیشده با اعلام شفاف؛ معرفی تلگرام، بله، ایتا و روبیکا |
 | 6 | فایلها + آموزش داخل بسته (م۷-۱۲) | ✅ | پوشه customer/ در این بسته |
 | 7 | فارسی/RTL کامل پنل (م۷-۱۳/۱۴) | ✅ | UI تمامفارسی |
 | 8 | ثبت تاریخ/نسخه آپدیت + راهنمای بروزرسانی (م۷-۱۸) | n/a | اولین انتشار |
